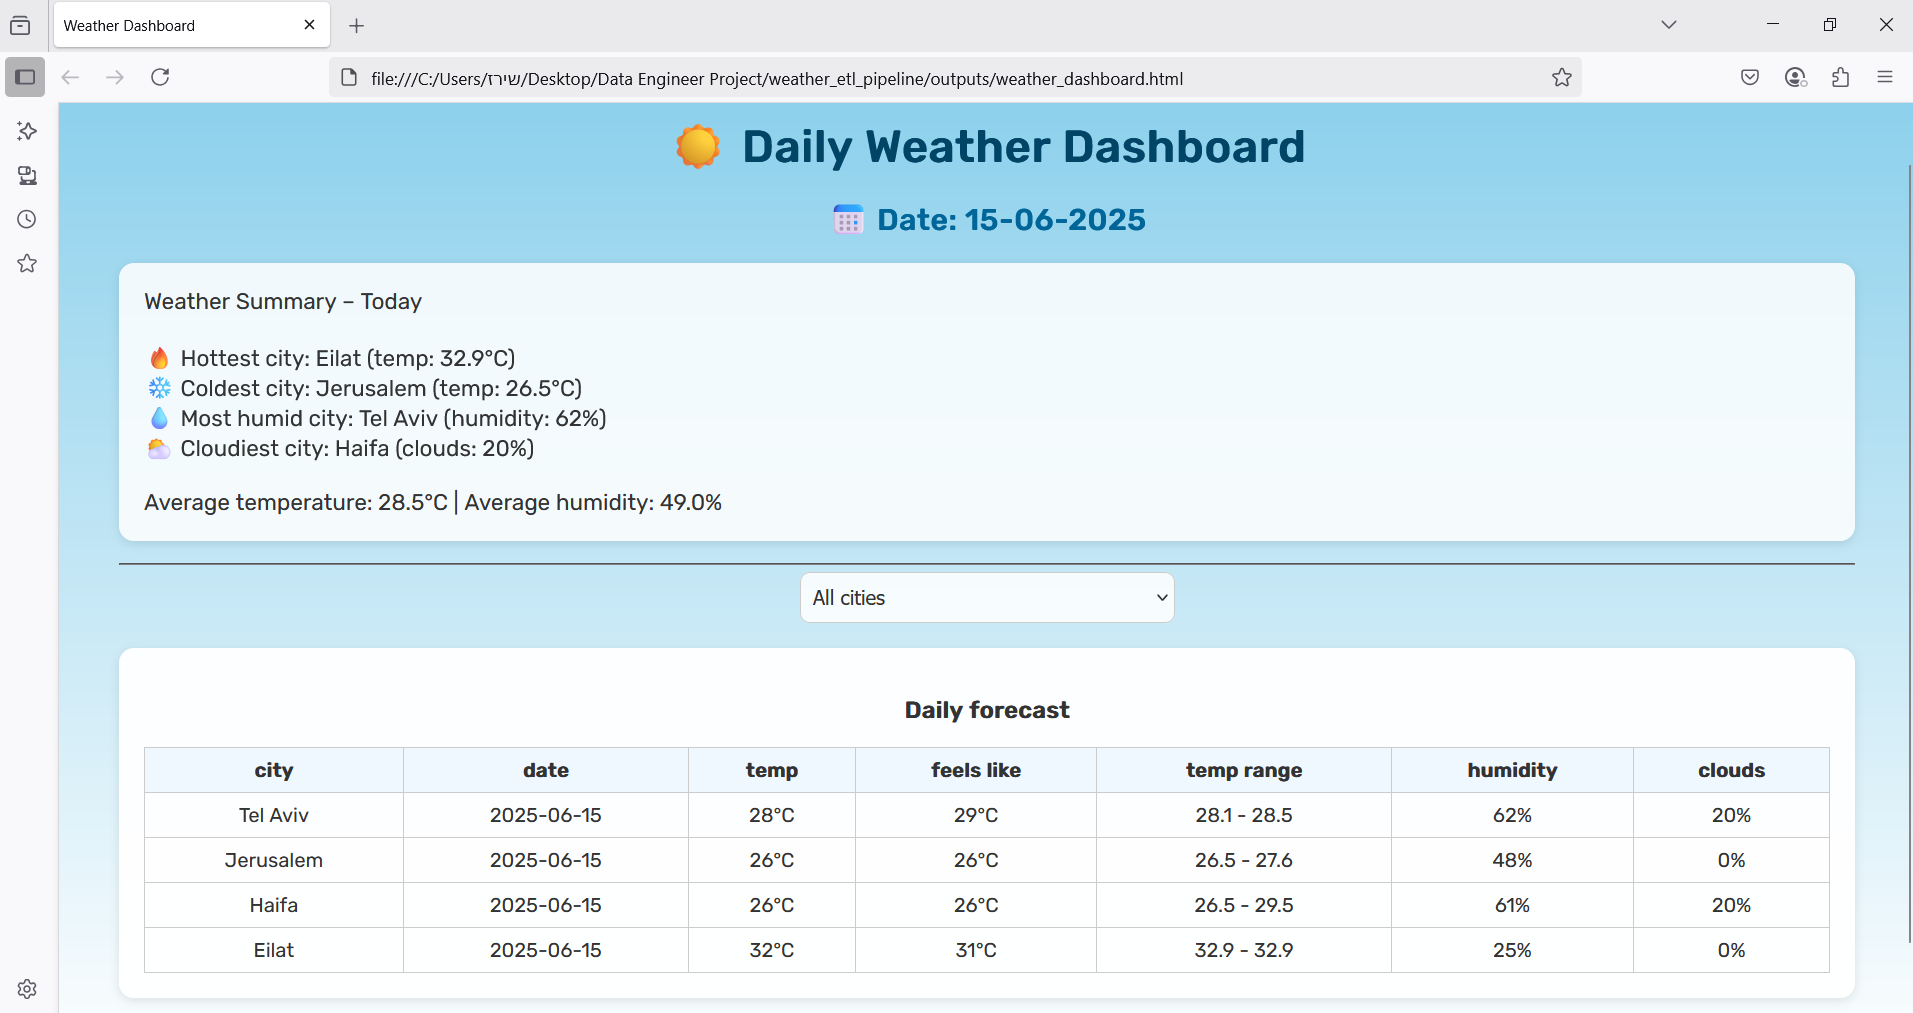
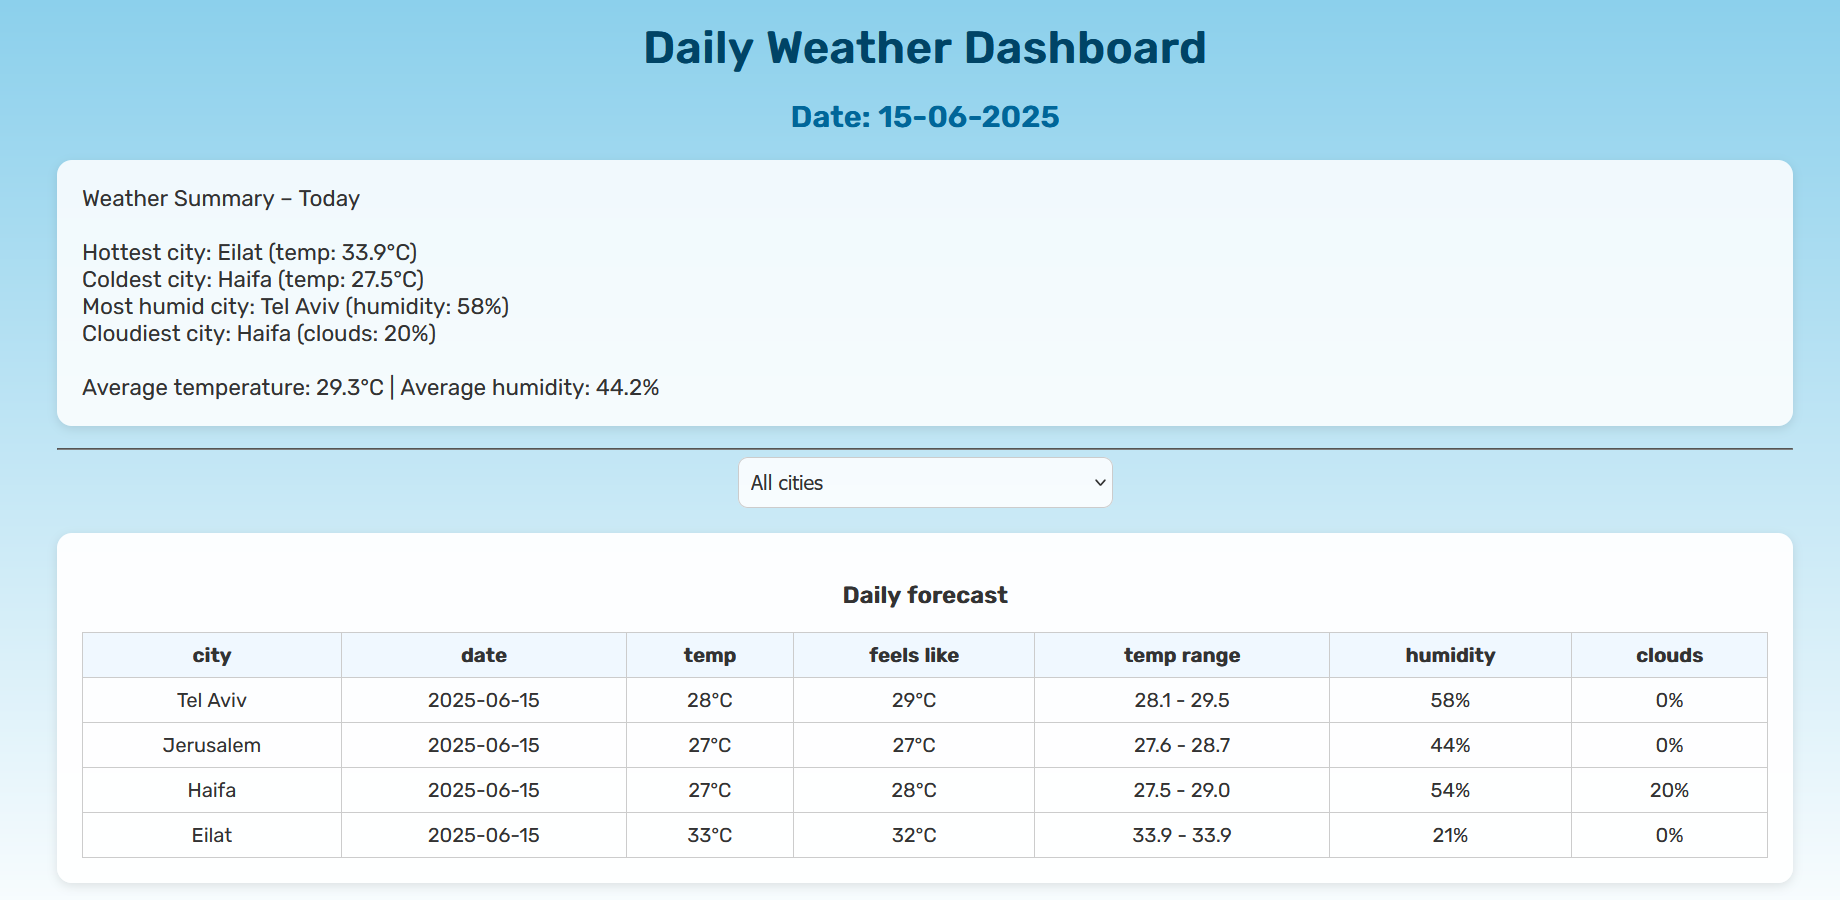
final version

diff --git a/process_with_pyspark.py b/process_with_pyspark.py
@@ -123,10 +123,10 @@ def process_data(files_paths_s3, spark):
     # Create weather summary string
     summary_text = f"""Weather Summary – Today
 
-🔥 Hottest city: {hottest['city']} (temp: {hottest['temp']}°C)
-❄ Coldest city: {coldest['city']} (temp: {coldest['temp']}°C)
-💧 Most humid city: {most_humid['city']} (humidity: {most_humid['humidity']}%)
-⛅ Cloudiest city: {cloudiest['city']} (clouds: {cloudiest['clouds']}%)
+Hottest city: {hottest['city']} (temp: {hottest['temp']}°C)
+Coldest city: {coldest['city']} (temp: {coldest['temp']}°C)
+Most humid city: {most_humid['city']} (humidity: {most_humid['humidity']}%)
+Cloudiest city: {cloudiest['city']} (clouds: {cloudiest['clouds']}%)
 
 Average temperature: {avg_temp}°C | Average humidity: {avg_humidity}%
 """

diff --git a/weather_dashboard.py b/weather_dashboard.py
@@ -125,8 +125,8 @@ def show_dashboard(final_df, summary_text, config):
         </script>
     </head>
     <body>
-        <h1>☀ Daily Weather Dashboard</h1>
-        <h2>📅 Date: {todays_date}</h2>
+        <h1> Daily Weather Dashboard</h1>
+        <h2> Date: {todays_date}</h2>
         <pre>{summary_text}</pre>
         <hr>
         <select id="city-dropdown" onchange="filterCityRows()">
